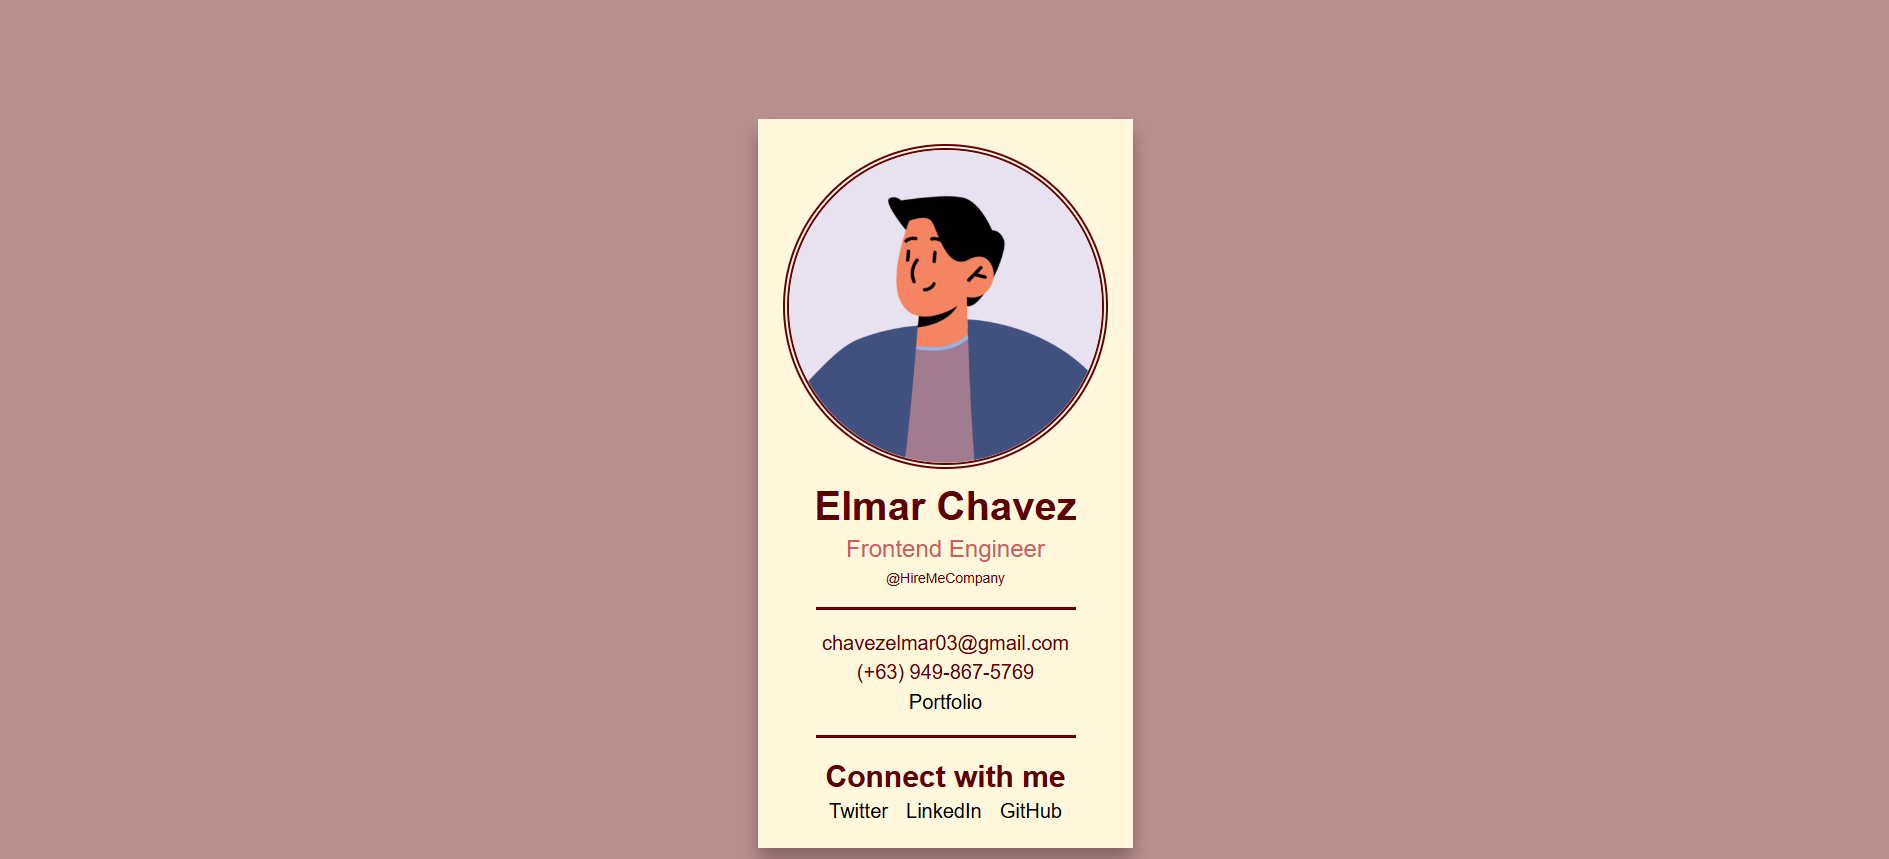
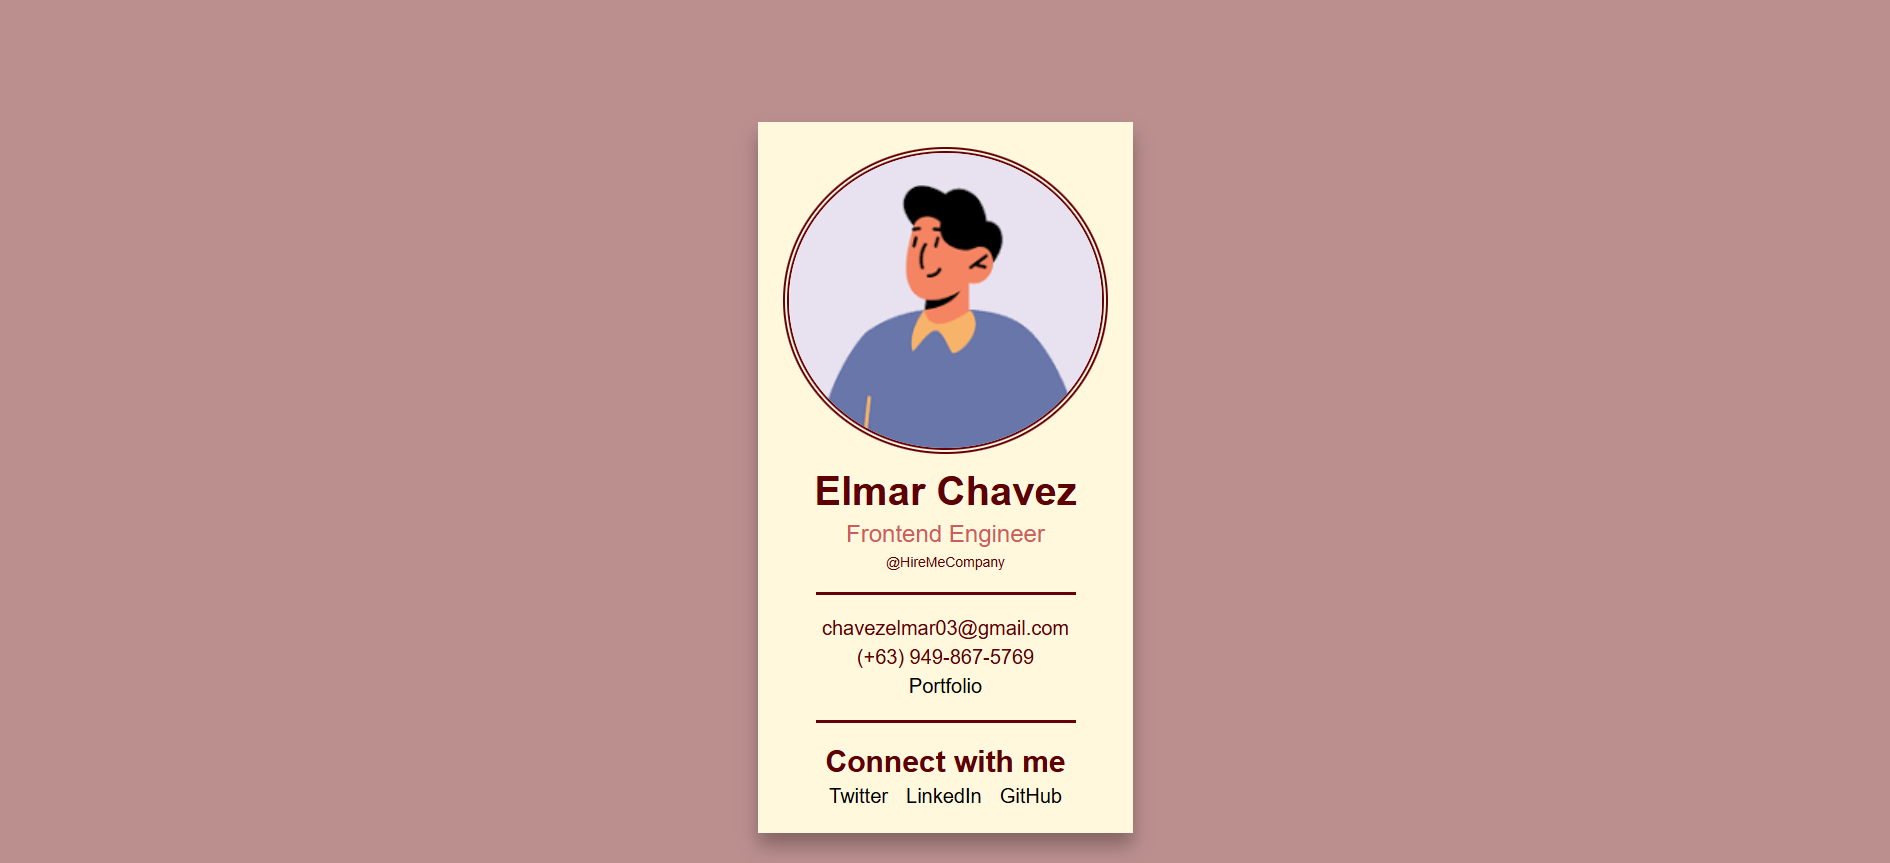
Added and updated files
Added an img folder and an image and updated index.html and README.md

diff --git a/index.html b/index.html
@@ -15,8 +15,7 @@
 
 <body>
     <div class="business-card">
-        <img src="https://avatar.iran.liara.run/public/2" alt="Profile image." class="profile-image" width="500"
-            height="500">
+        <img src="./img/avatar_204x192.png" alt="Profile image." class="profile-image" width="500" height="500">
 
         <p class="full-name"><span class="nowrap">Elmar Chavez</span></p>
         <p class="designation"><span class="nowrap">Frontend Engineer</span></p>

diff --git a/README.md b/README.md
@@ -1,22 +1,23 @@
-# 📁 Business Card
+# 💻 Business Card
 
 ![HTML5](https://img.shields.io/badge/HTML5-E34F26?style=for-the-badge&logo=html5&logoColor=white)
 ![CSS3](https://img.shields.io/badge/CSS3-1572B6?style=for-the-badge&logo=css3&logoColor=white)
-![Visual Studio Code](https://img.shields.io/badge/VS%20Code-007ACC?style=for-the-badge&logo=visual-studio-code&logoColor=white)
-![GitHub](https://img.shields.io/badge/GitHub-181717?style=for-the-badge&logo=github&logoColor=white)
-![Netlify](https://img.shields.io/badge/Netlify-00C7B7?style=for-the-badge&logo=netlify&logoColor=white)
-![freeCodeCamp](https://img.shields.io/badge/freeCodeCamp-27273D?style=for-the-badge&logo=freecodecamp&logoColor=white)
-![Responsive Design](https://img.shields.io/badge/Responsive%20Design-2196F3?style=for-the-badge&logo=responsive&logoColor=white)
+[![freeCodeCamp](https://img.shields.io/badge/freeCodeCamp-27273D?style=for-the-badge&logo=freecodecamp&logoColor=white)](https://www.freecodecamp.org/)
+[![Visual Studio Code](https://img.shields.io/badge/VS%20Code-007ACC?style=for-the-badge&logo=visual-studio-code&logoColor=white)](https://code.visualstudio.com/)
+[![Git](https://img.shields.io/badge/Git-F05032?style=for-the-badge&logo=git&logoColor=white)](https://git-scm.com/)
+[![GitHub](https://img.shields.io/badge/GitHub-181717?style=for-the-badge&logo=github&logoColor=white)](https://github.com/)
+[![Netlify](https://img.shields.io/badge/Netlify-00C7B7?style=for-the-badge&logo=netlify&logoColor=white)](https://www.netlify.com/)
 ![Semantic HTML](https://img.shields.io/badge/Semantic%20HTML-ff9800?style=for-the-badge)
 ![Accessible](https://img.shields.io/badge/Accessibility-A11Y-0052cc?style=for-the-badge)
-![Beginner Project](https://img.shields.io/badge/Beginner%20Project-25D366?style=for-the-badge)
+![Responsive Design](https://img.shields.io/badge/Responsive%20Design-2196F3?style=for-the-badge&logo=responsive&logoColor=white)
+![Mobile Friendly](https://img.shields.io/badge/Mobile%20Friendly-%E2%9C%85-1E293B?style=for-the-badge&logo=responsive-design&logoColor=white)
 ![Card Component](https://img.shields.io/badge/Card%20Component-UI%20Practice-yellow?style=for-the-badge)
 
-[![Netlify Status](https://api.netlify.com/api/v1/badges/47674e46-271a-4f1e-8590-c2887b53fb8d/deploy-status)](https://html-css-daily.netlify.app/design%20a%20business%20card/)
+[![Netlify Status](https://api.netlify.com/api/v1/badges/cb82c95a-18bc-4dbc-9f8c-18d8a3f381a0/deploy-status)](https://business-card-fcc-jiro.netlify.app/)
 ![Status](https://img.shields.io/badge/status-complete-brightgreen)
 ![Learning Path](https://img.shields.io/badge/learning%20path-month%202-blue)
 
-## ℹ Business Card Design Project
+## ℹ A Business Card Design Project
 
 ![Screenshot of the project](./screenshot.png)
 
@@ -62,20 +63,22 @@ It’s styled using modern design principles such as box shadows, border-radius,
 
 - HTML5
 - CSS3
+- Git
+- GitHub
+- Netlify
 
 ---
 
 ## 🚀 How to Run
 
 1. Clone the repository
-2. Navigate to this project folder
-3. Open `index.html` in your browser
+2. Open `index.html` in your browser
 
 ---
 
 ## 🌐 Live Demo
 
-Or you can check out the 👉 [live website here](https://html-css-daily.netlify.app/design%20a%20business%20card/)
+Or you can check out the 👉 [live website here](https://business-card-fcc-jiro.netlify.app/)
 
 ---
 
@@ -85,4 +88,4 @@ Created by **Elmar Chavez**
 
 🗓 Month/Year: **May 2025**
 
-📚 Journey: **2nd** month of learning _frontend web development_.
+📚 Journey: **2<sup>nd</sup>** month of learning _frontend web development_.
